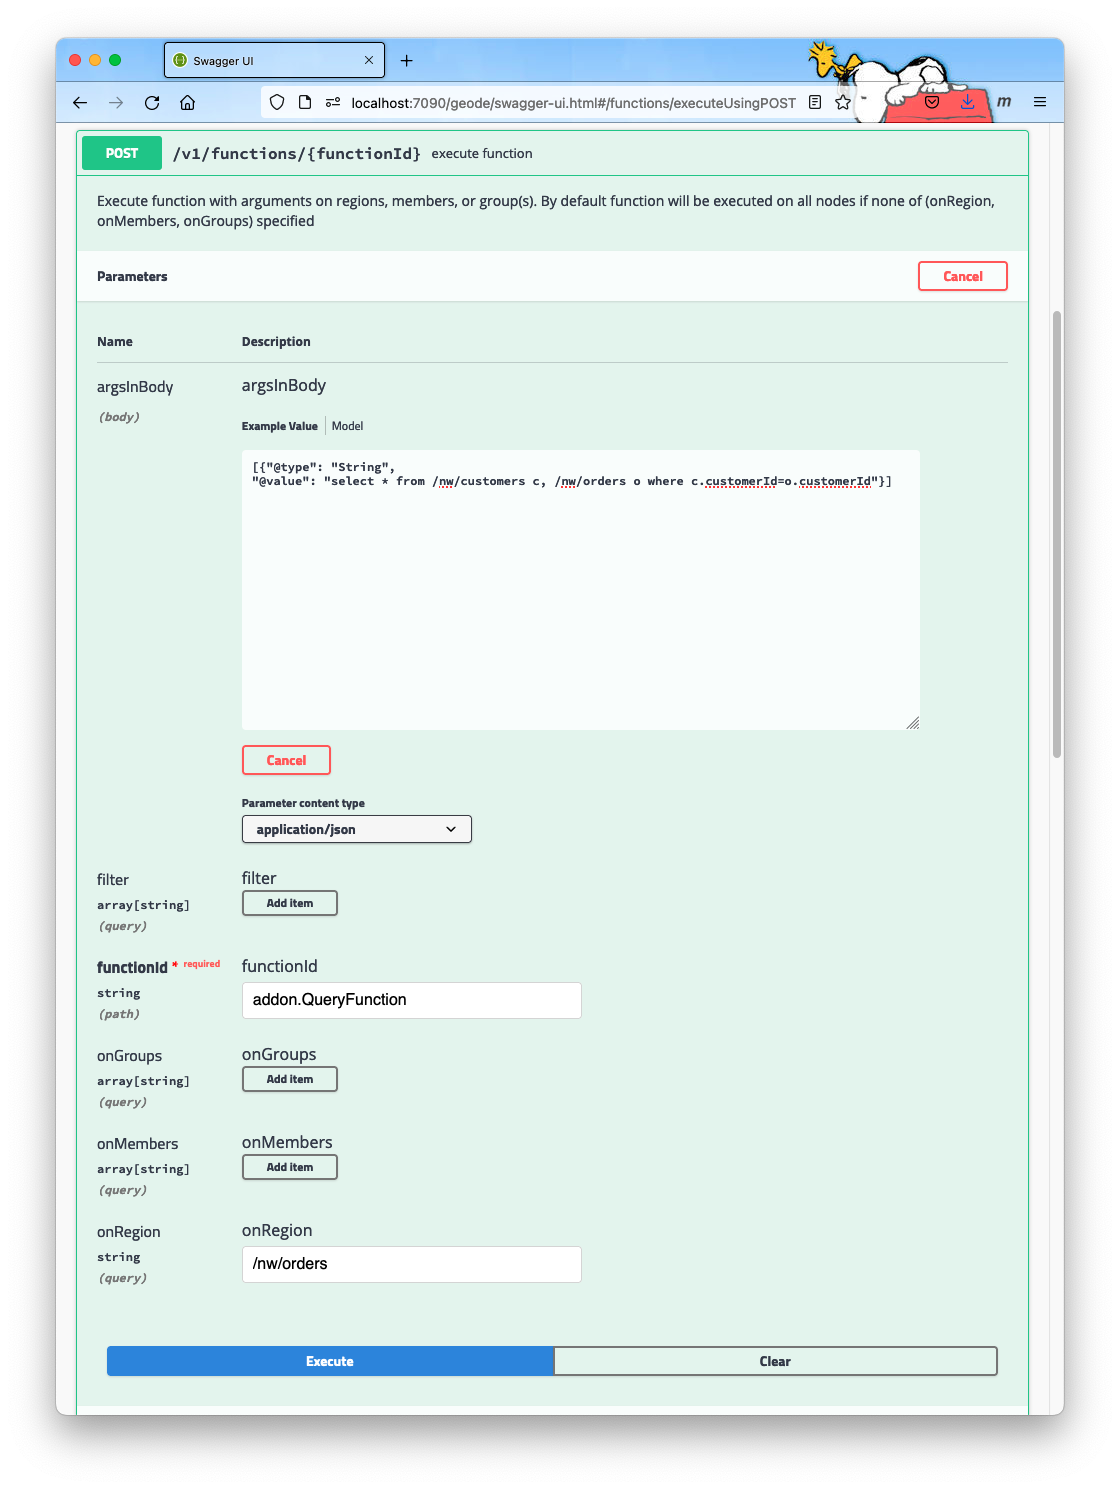
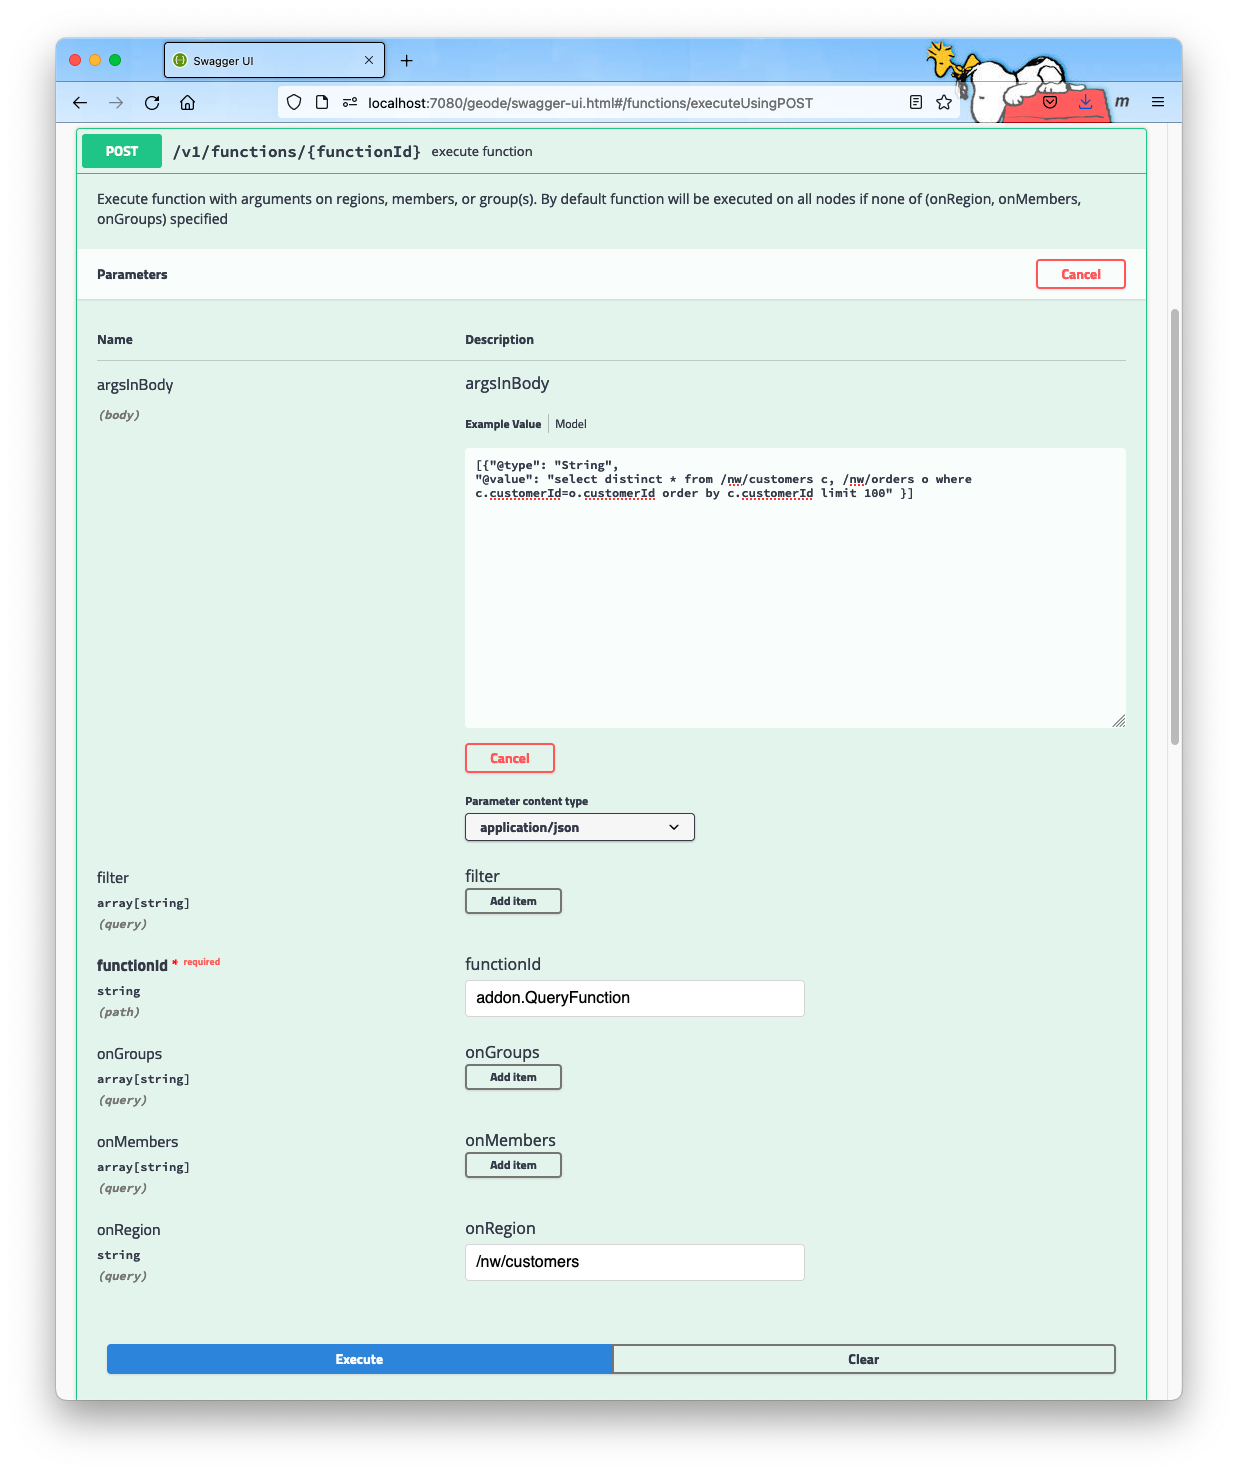
Updated image

diff --git a/README.md b/README.md
@@ -463,7 +463,7 @@ addon.QueryFunction
 - onRegion:
 
 ```console
-/nw/orders
+/nw/customers
 ```
 
 ![Swagger Screenshopt](images/swagger-addon-query-function.png)
